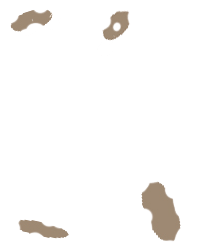
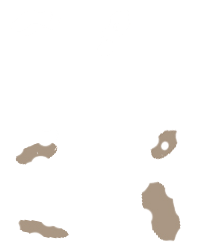
correct prize music and dirt.png

diff --git a/scripts/pinata.js b/scripts/pinata.js
@@ -4,6 +4,7 @@ let audioCrash = document.getElementById ('crash_music');
 let audioBoom = document.getElementById ('boom_music');
 let reaction = document.getElementById ('pinataReaction');
 let pinataPrize = document.getElementById ('pinataPrize');
+let prizeAudio = document.getElementById ('prize_music');
 
 const counters = {
   countSprite: 0,
@@ -73,6 +74,7 @@ export function paintPrize () {
   const arrayPrize = ['🟡','🔶'];
   const numPrize = Math.floor ( Math.random()*10 + 1 );
   const typePrize = Math.floor ( Math.random() + 0.5 );
+  prizeAudio.play();
   pinataPrize.textContent = `Your prize\n${numPrize} ${arrayPrize[typePrize]}`;
   pinataPrize.style.display = 'block';
   if (typePrize) {

diff --git a/index.html b/index.html
@@ -72,6 +72,7 @@
         <audio src="./audio/fall_audio.mp3" id="fall_music"></audio>
         <audio src="./audio/xoxo.mp3" id="tickling_music"></audio>
         <audio src="./audio/lol.m4a" id="toilet_music"></audio>
+        <audio src="./audio/prize.mp3" id="prize_music"></audio>
         <audio src="./audio/shower.mp3" id="shower_music" loop></audio>
         <canvas height="700" id="canvas2" width="1000"></canvas>
         <canvas height="300" id="canvas3" width="200"></canvas>

diff --git a/styles/style1.css b/styles/style1.css
@@ -289,7 +289,7 @@ canvas {
     width: 210px;
     height: 250px;
     position: absolute;
-    top: 165px;
+    top: 230px;
     left: 350px;
     background-image: url(../img/bathroom/dirt.png);
     opacity: 1;
